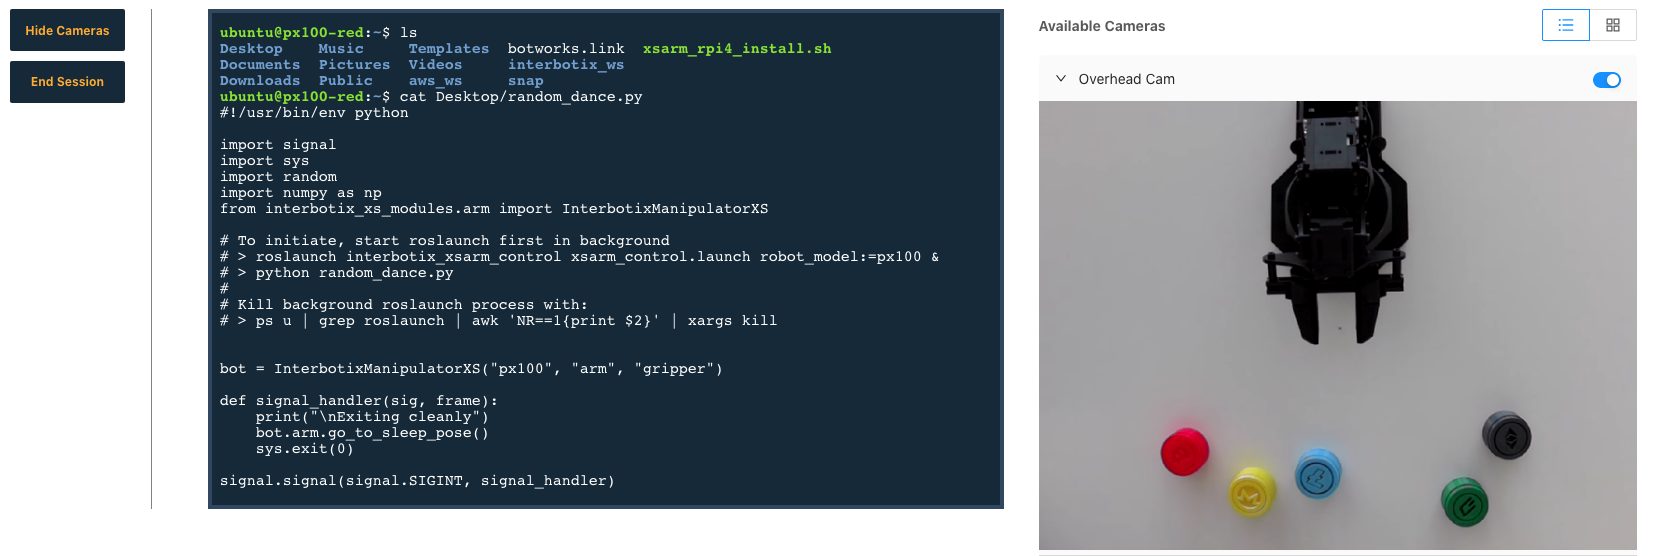
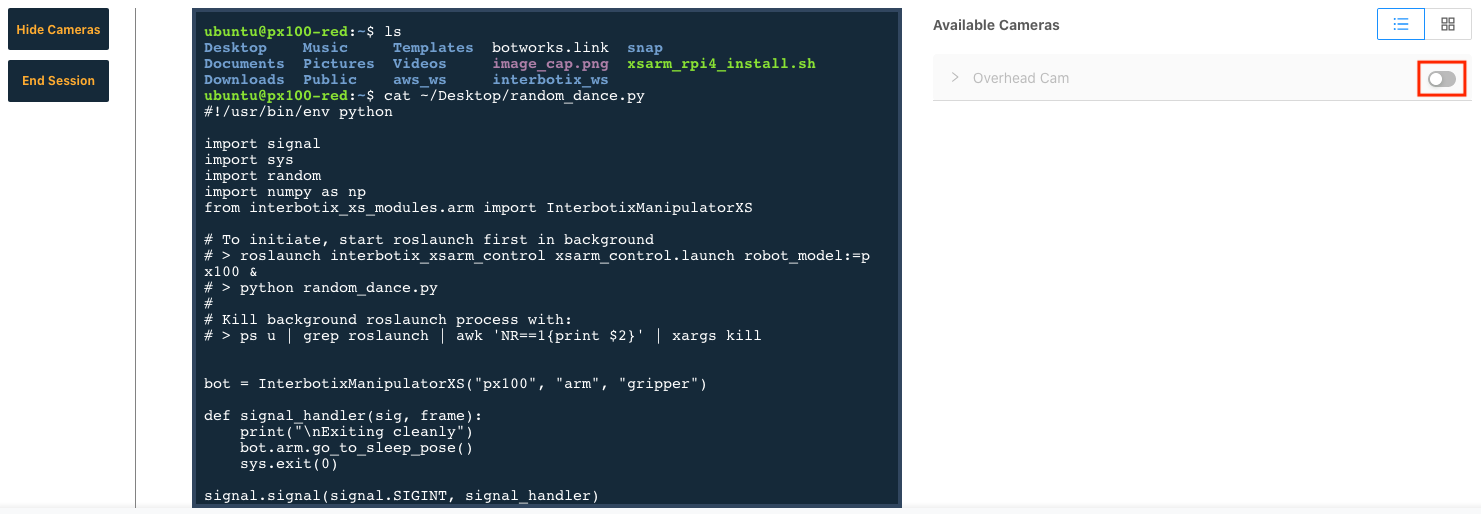
Fixed camera stream error

diff --git a/content/6 Deploy Application/2_connect_to_robot.md b/content/6 Deploy Application/2_connect_to_robot.md
@@ -27,15 +27,30 @@ Only one user may connect to a robot at a time.
 
 From this terminal window, you can execute any command and carry out any ROS development as you would if the robot was sitting next to you.
 
-4. Click on **View Cameras** on the left. A low-latency livestream of the robot will be presented to you. You can toggle this camera view at your will.
+---
+
+> If your terminal window seems stuck after printing a single `$` sign as shown below, click on **View Cameras** and ensure that the camera livestream is turned off. Then restart your session. Inform the presenters in case the problem still persists.
+> ![Stuck Session](/stuck-session.png?classes=border)
+
+---
+
+4. Click on **View Cameras** on the left. An on-site camera associated with the robot will be displayed under _Available Cameras_. Click on the toggle switch next to the camera.
 
 ![View Cameras](/view-cameras.png?classes=border)
 
-5. In case the camera view presents a blank window for more than 10 seconds, click on the blue switch on the top-right of the camera _twice_ to restart the camera. This usually fixes the livestream. Always give the livestream a few seconds to go live before attempting to refresh it.
+5. A low-latency livestream from the camera will be started. You can toggle the camera on and off through its switch at your will.
 
-> If the camera windown remains blank even after troubleshooting, inform the presenters and they will hard-reset the camera connection for you.
+![Camera Stream](/camera-stream.png?classes=border)
 
-6. Confirm that you are able to control the robot by executing a sample script on the hardware.
+6. In case the camera view presents a blank window for more than 10 seconds, click on the camera's toggle switch _twice_ to restart the camera. This usually fixes the livestream. Always give the livestream a few seconds to go live before attempting to refresh it.
+
+---
+
+> If the camera window remains blank even after troubleshooting, inform the presenters and they will hard-reset the camera connection for you.
+
+---
+
+7. Confirm that you are able to control the robot by executing a sample script on the hardware.
 
 ```
 roslaunch interbotix_xsarm_control xsarm_control.launch robot_model:=px100 use_rviz:=false &

diff --git a/content/4 Add Intelligence/5_obtain_coordinates.md b/content/4 Add Intelligence/5_obtain_coordinates.md
@@ -7,7 +7,7 @@ pre = "5. "
 
 # Obtain physical coordinates
 
-1. Open the _main.py_ file located at the following path.
+1. Open the _main.py_ file located at the following path:
 
 ```c
 aws_ws -> src -> robomaker_workshop -> scripts -> main.py
@@ -16,20 +16,23 @@ aws_ws -> src -> robomaker_workshop -> scripts -> main.py
 2. Add the following code snippet under **STEP 3** of _main.py_. Then hit save.
 
 ```python
-rospy.logwarn("Press Enter to transform coin positions into physical coordinates")
-raw_input()
-
-rospy.loginfo('Transforming pixels to physical coordinates...' % len(labels))
+rospy.loginfo('Transforming pixels to physical coordinates...')
 coins = {}
 
 for l in labels:
     name = l['Name']
     x, y = util.get_coin_position(l['Geometry']['BoundingBox'])
     rospy.loginfo(name)
-    rospy.loginfo('\tX: ' + str(x))
-    rospy.loginfo('\tY: ' + str(y))
+    rospy.loginfo('\tX: ' + str(x) + ' m')
+    rospy.loginfo('\tY: ' + str(y) + ' m')
     coins[name] = [x, y]
 ```
+
+---
+
+> Python is senstitive to identation so make sure that the tabs and spaces in your code _exactly_ match the code shown here.
+
+---
 
 3. Run the _main.py_ script in simulation mode. Press Enter as prompted by the script.
 

diff --git a/content/3 Build Simulation/9_integrate_moveit.md b/content/3 Build Simulation/9_integrate_moveit.md
@@ -7,7 +7,7 @@ pre = "9. "
 
 # Integrate MoveIt
 
-1. Open the _main.launch_ file located at the following path.
+1. Open the _main.launch_ file located at the following path:
 
 ```c
 aws_ws -> src -> robomaker_workshop -> launch -> main.launch
@@ -28,10 +28,10 @@ aws_ws -> src -> robomaker_workshop -> launch -> main.launch
 roslaunch robomaker_workshop main.launch
 ```
 
-4. Open a new terminal tab and execute the **init.py** script.
+4. Open a new terminal tab and execute the **init.py** script in simulation mode.
 
 ```
-python ~/environment/aws_ws/src/robomaker_workshop/scripts/init.py
+python ~/environment/aws_ws/src/robomaker_workshop/scripts/init.py --sim
 ```
 
 5. Head over to the virtual desktop. The simulated arm will become animated and move to its _sleep_ position.
@@ -45,7 +45,7 @@ The same effect can be achieved by running the python script automatically on ap
 6. Add the following code snippet under **STEP 6** of _main.launch_.
 
 ```
-<node pkg="robomaker_workshop" name="init" type="init.py" output="screen" />
+<node pkg="robomaker_workshop" name="init" type="init.py" output="screen" args="--sim" />
 ```
 
 7. Run the ROS application.

diff --git a/content/4 Add Intelligence/4_infer_image_objects.md b/content/4 Add Intelligence/4_infer_image_objects.md
@@ -7,7 +7,7 @@ pre = "4. "
 
 # Infer objects in image
 
-1. Open the _main.py_ file located at the following path.
+1. Open the _main.py_ file located at the following path:
 
 ```c
 aws_ws -> src -> robomaker_workshop -> scripts -> main.py
@@ -16,15 +16,18 @@ aws_ws -> src -> robomaker_workshop -> scripts -> main.py
 2. Add the following code snippet under **STEP 2** of _main.py_. Then hit save.
 
 ```python
-rospy.logwarn('Press Enter to discover labels with Rekognition')
-raw_input()
-
-labels = util.find_coins(image, model_arn, CONFIDENCE_THRESHOLD, MODEL_ACCESS_PROFILE)
+labels = util.find_coins(IMAGE_NAME, model_arn, CONFIDENCE_THRESHOLD, access_profile)
 rospy.loginfo('Found %d labels in image' % len(labels))
 
 util.print_labels(labels)
 util.display_labels(image, labels)
 ```
+
+---
+
+> Python is senstitive to identation so make sure that the tabs and spaces in your code _exactly_ match the code shown here.
+
+---
 
 3. Run the _main.py_ script in simulation mode. Press Enter as prompted by the script.
 

diff --git a/content/4 Add Intelligence/6_command_robot.md b/content/4 Add Intelligence/6_command_robot.md
@@ -7,7 +7,7 @@ pre = "6. "
 
 # Command robot to fetch
 
-1. Open the _main.py_ file located at the following path.
+1. Open the _main.py_ file located at the following path:
 
 ```c
 aws_ws -> src -> robomaker_workshop -> scripts -> main.py
@@ -16,9 +16,6 @@ aws_ws -> src -> robomaker_workshop -> scripts -> main.py
 2. Add the following code snippet under **STEP 4** of _main.py_. Then hit save.
 
 ```
-rospy.logwarn("Press Enter to instruct robot to fetch coins")
-raw_input()
-
 for name, position in coins.items():
     robot.home()
     robot.open_gripper()
@@ -37,6 +34,12 @@ for name, position in coins.items():
 rospy.loginfo("No more coins. Going to sleep...")
 robot.sleep()
 ```
+
+---
+
+> Python is senstitive to identation so make sure that the tabs and spaces in your code _exactly_ match the code shown here.
+
+---
 
 3. Run the _main.py_ script in simulation mode. Press Enter as prompted by the script.
 

diff --git a/content/4 Add Intelligence/3_confirm_model_access.md b/content/4 Add Intelligence/3_confirm_model_access.md
@@ -7,7 +7,7 @@ pre = "3. "
 
 # Confirm model access
 
-1. Open the _main.py_ file located at the following path.
+1. Open the _main.py_ file located at the following path:
 
 ```c
 aws_ws -> src -> robomaker_workshop -> scripts -> main.py
@@ -17,13 +17,18 @@ aws_ws -> src -> robomaker_workshop -> scripts -> main.py
 
 ```
 rospy.loginfo("Checking state of Rekognition model...")
-status = util.model_status(ARN_BASE + PROJECT_ID, model_name, MODEL_ACCESS_PROFILE)
+status = util.model_status(project_name, model_name, access_profile)
 
 rospy.loginfo('Current model state: %s' % status)
 if status != 'RUNNING':
     rospy.logerr('Rekognition model needs to be in RUNNING state')
-    return
 ```
+
+---
+
+> Python is senstitive to identation so make sure that the tabs and spaces in your code _exactly_ match the code shown here.
+
+---
 
 3. Make sure the ROS application is running. Otherwise launch it now.
 

diff --git a/content/3 Build Simulation/7_visualize_data.md b/content/3 Build Simulation/7_visualize_data.md
@@ -7,7 +7,7 @@ pre = "7. "
 
 # Visualize robot data
 
-1. Open the _main.launch_ file located at the following path.
+1. Open the _main.launch_ file located at the following path:
 
 ```c
 aws_ws -> src -> robomaker_workshop -> launch -> main.launch
@@ -31,6 +31,14 @@ roslaunch robomaker_workshop main.launch
 
 ![RViz GUI](/rviz.png?classes=border)
 
+Pay special attention to the camera livestream of our simulated Gazebo world that shows up in Rviz.
+
 ---
 
-> Pay special attention to the camera livestream of our simulated Gazebo world that shows up in Rviz.
+> You can check out the raw video data by manually subscribing to the ROS topic where the camera data is being published.
+
+```
+rostopic echo /camera/image_raw
+```
+
+![Raw Image](/raw-image.png?classes=border)

diff --git a/content/3 Build Simulation/4_broadcast_robot_desc.md b/content/3 Build Simulation/4_broadcast_robot_desc.md
@@ -7,7 +7,7 @@ pre = "4. "
 
 # Broadcast robot description
 
-1. Open the _main.launch_ file located at the following path.
+1. Open the _main.launch_ file located at the following path:
 
 ```c
 aws_ws -> src -> robomaker_workshop -> launch -> main.launch
@@ -38,6 +38,8 @@ roslaunch robomaker_workshop main.launch
 ---
 
 > You can check out the raw robot information being broadcasted by printing the associated ROS parameter. This parameter holds the XML output describing the form-factor and physics of the robot.
+
+5. Confirm that your ROS application is still running. In a new terminal tab, poll the ROS Parameter Server for the robot's description.
 
 ```
 rosparam get -p /robot_description

diff --git a/content/4 Add Intelligence/2_snap_camera_image.md b/content/4 Add Intelligence/2_snap_camera_image.md
@@ -19,6 +19,6 @@ roslaunch robomaker_workshop main.launch
 rosservice call /image_saver/save
 ```
 
-4. A snap of the camera stream will appear in your _/scripts_ directory with the name **image_cap.png**. Double-click on the file to view the image in Cloud9.
+4. A snap of the camera stream will appear in your _/robomaker_workshop_ directory with the name **image_cap.png**. Double-click on the file to view the image in Cloud9.
 
 ![Camera stream snap](/stream-snap.png?classes=border)

diff --git a/content/3 Build Simulation/2_initiate_sim_world.md b/content/3 Build Simulation/2_initiate_sim_world.md
@@ -7,7 +7,7 @@ pre = "2. "
 
 # Initiate simulation world
 
-1. Open the _main.launch_ file located at the following path.
+1. Open the _main.launch_ file located at the following path:
 
 ```c
 aws_ws -> src -> robomaker_workshop -> launch -> main.launch

diff --git a/content/3 Build Simulation/6_set_up_controllers.md b/content/3 Build Simulation/6_set_up_controllers.md
@@ -7,7 +7,7 @@ pre = "6. "
 
 # Set up controllers
 
-1. Open the _main.launch_ file located at the following path.
+1. Open the _main.launch_ file located at the following path:
 
 ```c
 aws_ws -> src -> robomaker_workshop -> launch -> main.launch
